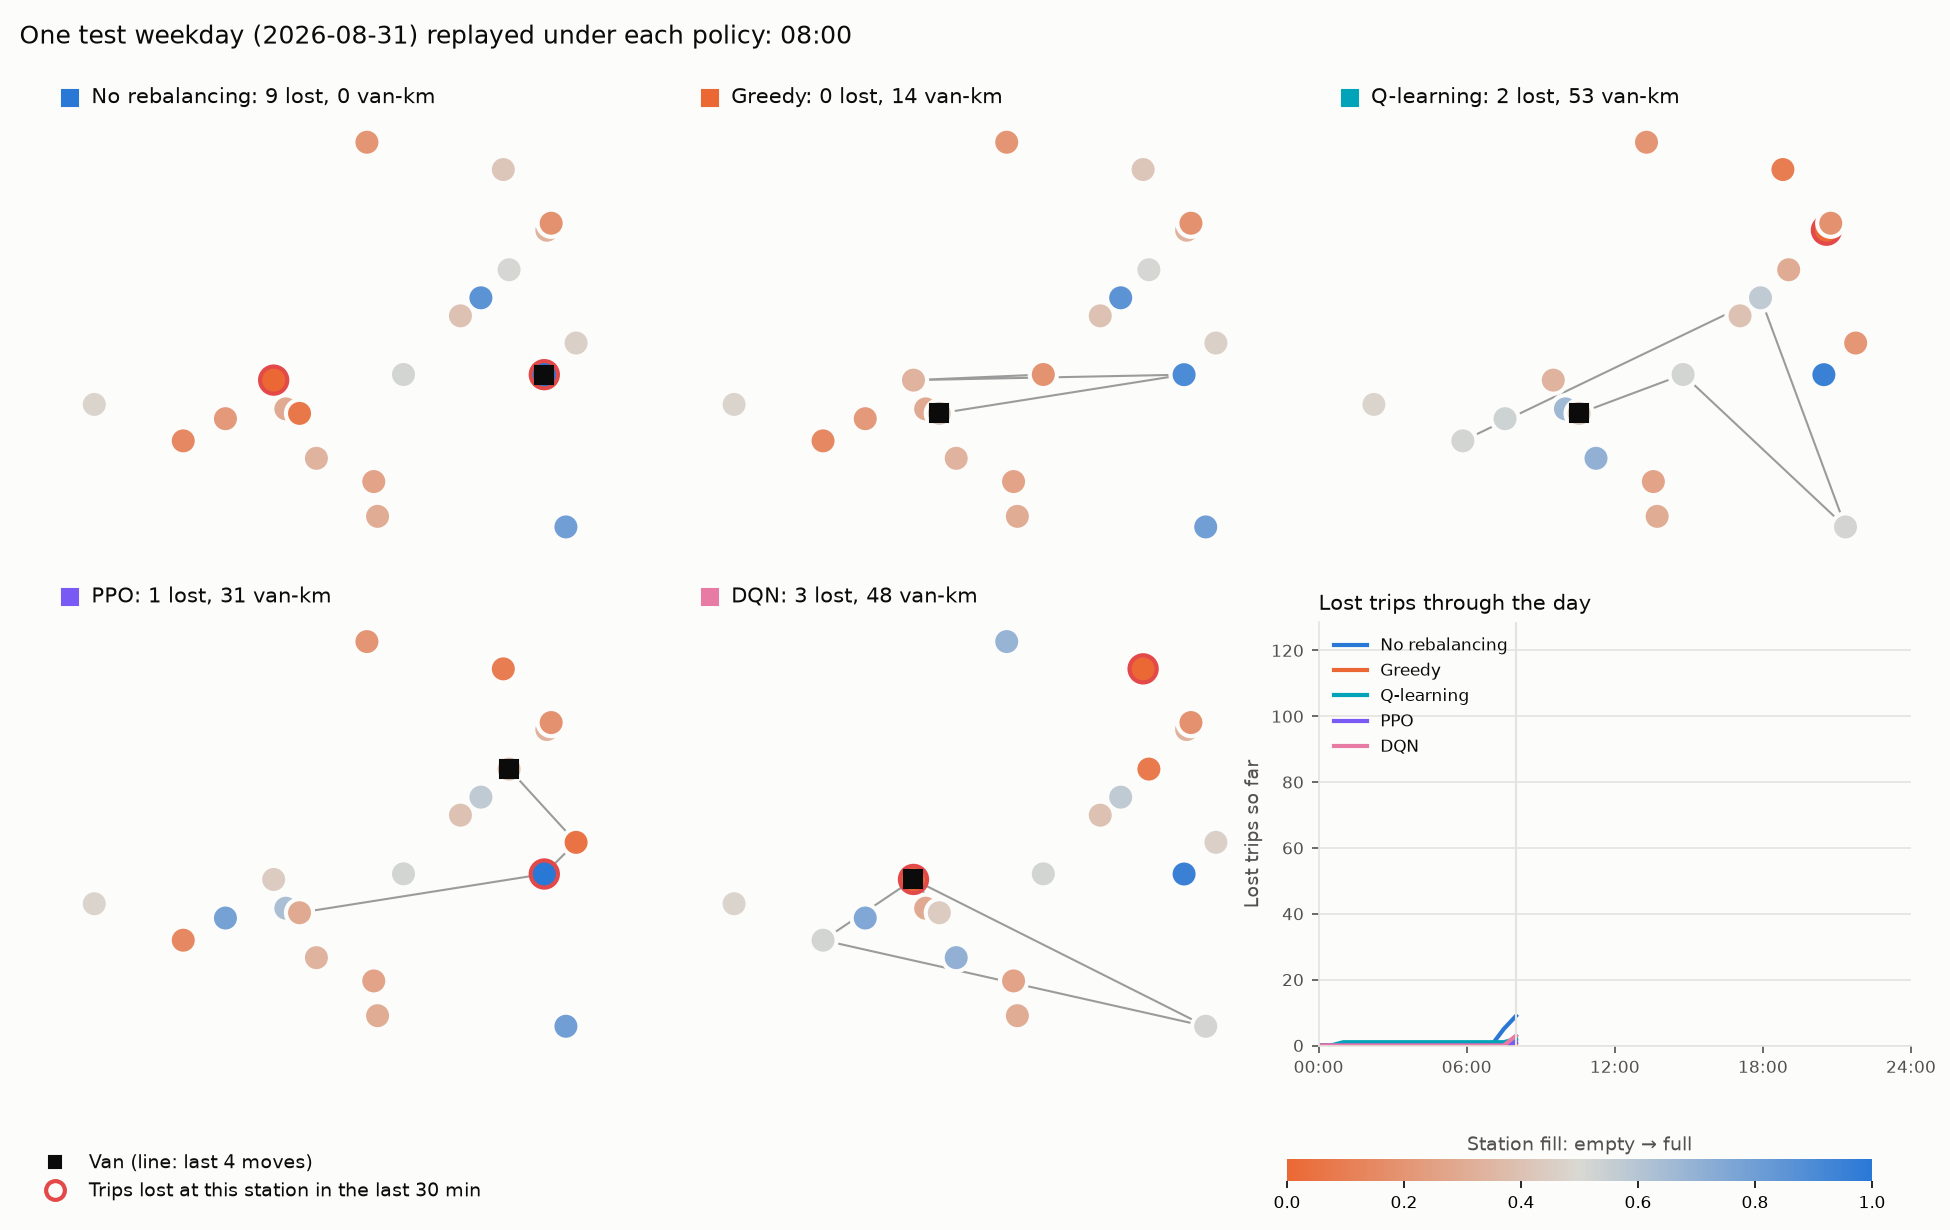
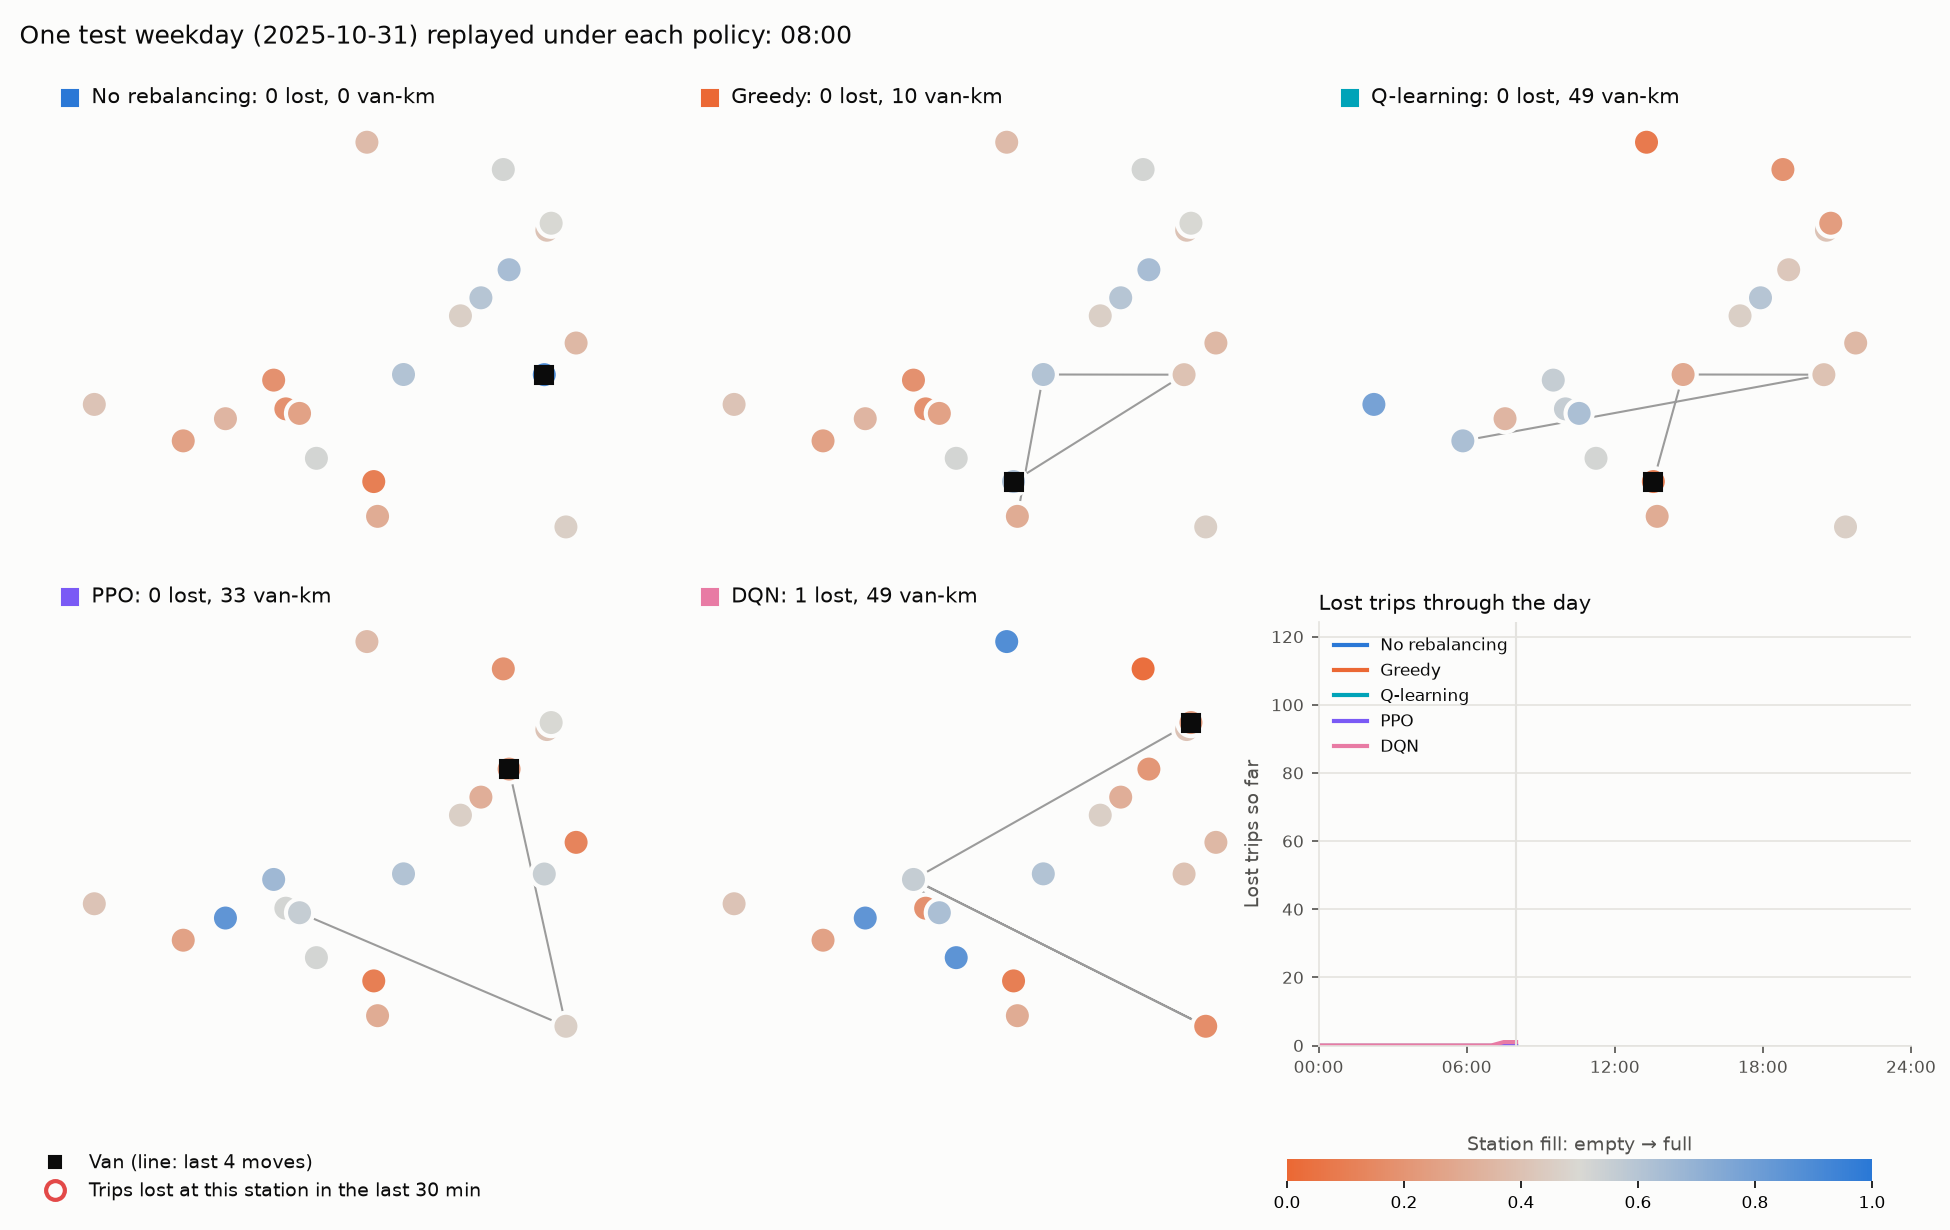
Animate one typical test day under all five policies

diff --git a/animate.py b/animate.py
@@ -21,8 +21,24 @@ LOST = "#e34948"
 COLORS = {"No rebalancing": "#2a78d6", "Greedy": "#eb6834", "Q-learning": "#00a3b8", "PPO": "#7a5af5", "DQN": "#e87ba4"}
 
 
+def run_names(seed):
+    return {
+        "Q-learning": train_qlearning.run_name(True, True, False, seed),
+        "PPO": train_ppo.run_name(False, 0.01, seed),
+        "DQN": train_dqn.run_name(False, True, seed),
+    }
+
+
+def typical_weekday(env, seed):
+    lost = {"No rebalancing": evaluate(no_rebalance)[:, 1], "Greedy": evaluate(greedy)[:, 1]}
+    lost.update({n: np.load(train_dqn.RESULTS / f"{r}_test.npz")["rows"][:, 1] for n, r in run_names(seed).items()})
+    weekdays = np.flatnonzero(env.weekdays)
+    gaps = sum(np.abs(l[weekdays] - l[weekdays].mean()) / l[weekdays].mean() for l in lost.values())
+    return int(weekdays[np.argmin(gaps)])
+
+
 def policies(env, seed):
-    q_name = train_qlearning.run_name(True, True, False, seed)
+    q_name = run_names(seed)["Q-learning"]
     saved = np.load(train_qlearning.RESULTS / f"{q_name}.npz")
     agent = train_qlearning.ZoneQAgent(env, saved["zones"], train_qlearning.FINE_TIME_EDGES)
     agent.q, agent.visits = saved["q"], saved["visits"]
@@ -52,13 +68,11 @@ def replay(policy, env, day):
 def main():
     p = argparse.ArgumentParser()
     p.add_argument("--seed", type = int, default = 0)
-    p.add_argument("--day", type = int, help = "test-day index, default is the weekday with median no-rebalancing losses")
+    p.add_argument("--day", type = int, help = "test-day index, default is the weekday where every policy is closest to its weekday average")
     args = p.parse_args()
 
     env = BikeRebalanceEnv(split = "test")
-    base = evaluate(no_rebalance)[:, 1]
-    weekdays = np.flatnonzero(env.weekdays)
-    day = args.day if args.day is not None else int(weekdays[np.argsort(base[weekdays])[len(weekdays) // 2]])
+    day = args.day if args.day is not None else typical_weekday(env, args.seed)
     stations = pd.read_csv(DEMAND.parent / "stations.csv").set_index("station_id").loc[env.station_ids]
     x, y = stations.lon.to_numpy(), stations.lat.to_numpy()
 
